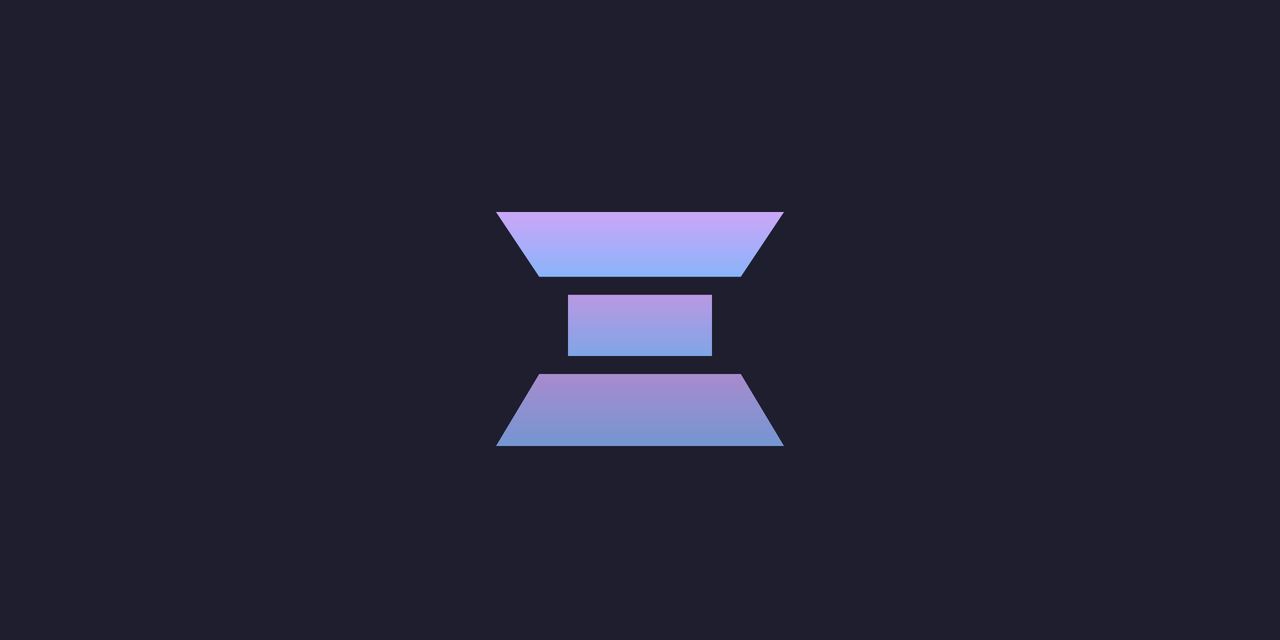
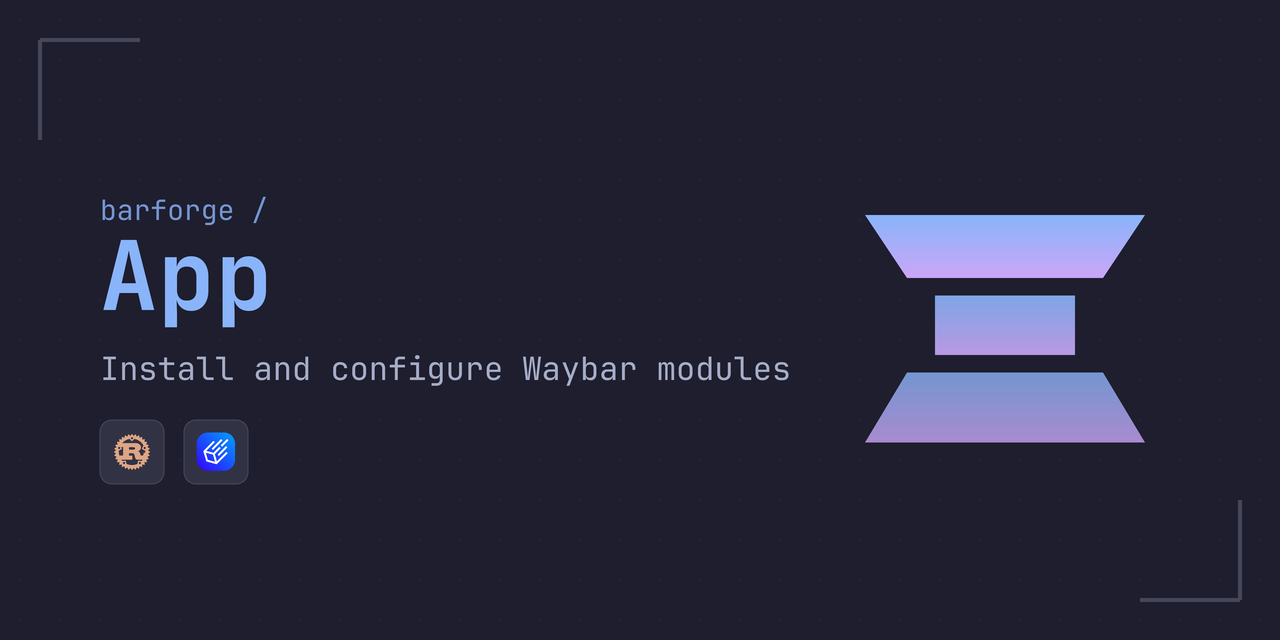
feat: update OG image and README branding (#50)
* fix(ci): add cargo-workspace plugin for version sync

* feat: update OG image and README branding

- Update README description to Barforge App
- Add new OG image with Rust, Iced icons
- Add Related section linking to barforge-web

diff --git a/README.md b/README.md
@@ -3,7 +3,7 @@
 </p>
 
 <p align="center">
-  <b>Browse, install, and manage waybar modules from a central registry.</b>
+  <b>Barforge App — Install and configure Waybar modules</b>
 </p>
 
 <p align="center">
@@ -173,6 +173,12 @@ cargo clippy
 ## Contributing
 
 Contributions are welcome! Please see [CONTRIBUTING.md](CONTRIBUTING.md) for guidelines.
+
+## Related
+
+| Project                                                  | Description                                  |
+| -------------------------------------------------------- | -------------------------------------------- |
+| [barforge-web](https://github.com/jtaw5649/barforge-web) | Barforge Hub — Browse and discover modules   |
 
 ## License
 
